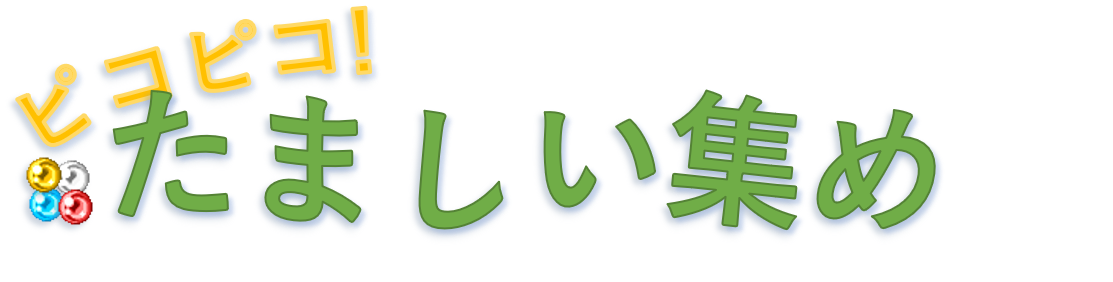
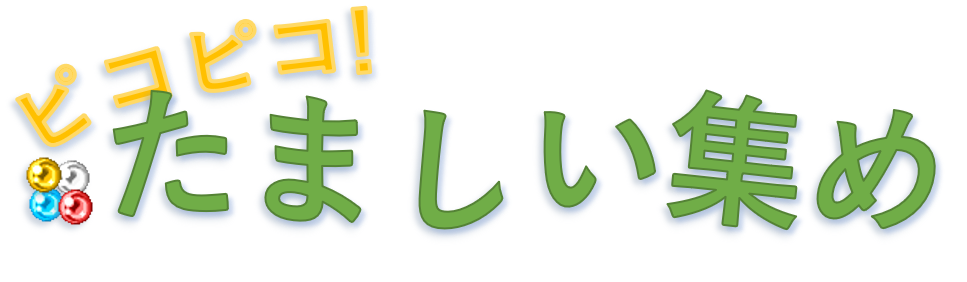
ロゴ表示

diff --git a/TitleScene.js b/TitleScene.js
@@ -12,6 +12,9 @@ phina.define("TitleScene", {
         this.bg.width = SCREEN_WIDTH;
         this.bg.height = SCREEN_HEIGHT;
 
+		this.logo = Sprite("logo").addChildTo(this);
+		this.logo.setPosition(this.gridX.center(),this.gridY.span(4));
+		
         this.gameTitle = Label("PRESS ANY KEY");
         this.gameTitle.addChildTo(this);
         this.gameTitle.x = this.gridX.center();

diff --git a/GameScene.js b/GameScene.js
@@ -64,7 +64,7 @@ phina.define("GameScene", {
 
         this.time = 0;
         this.score = 0;
-        this.level = 1;
+        this.level = 11;
 		
         this.displayTime = Label().addChildTo(this);
         this.displayTime.fill = 'black';
